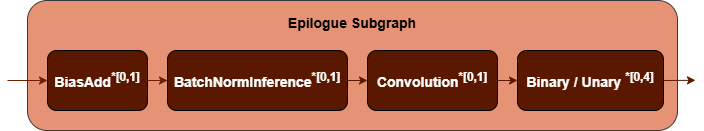
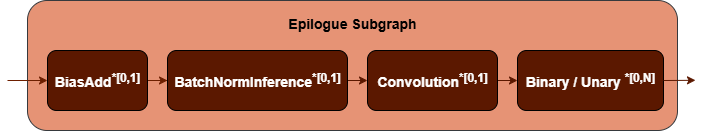
doc: graph: update max binary/unary ops number to 20

diff --git a/doc/graph/fusion_patterns/convolution_fusion_patterns.md b/doc/graph/fusion_patterns/convolution_fusion_patterns.md
@@ -39,7 +39,8 @@ brown nodes are optional.
      and can only appear once.
    - **Convolution**: If present, is a Depthwise Convolution which can only be
      fused with 1x1 Convolution and can only appear once.
-   - 0 to 4 Binary or Unary operations are supported in the epilogue subgraph.
+   - N=20, 0 to 20 Binary or Unary operations are supported in the epilogue
+     subgraph.
 
 3. **F2F Conversion Subgraph**: Converts the output tensor from floating-point to
    another floating-point. It is constructed by a [TypeCast](@ref dev_guide_op_typecast)

diff --git a/doc/graph/fusion_patterns/quantized_convtranspose_fusion_patterns.md b/doc/graph/fusion_patterns/quantized_convtranspose_fusion_patterns.md
@@ -40,7 +40,8 @@ pattern while the brown nodes are optional.
 
    - **BiasAdd**: If present, must be the first op in the epilogue subgraph and
      can only appear once.
-   - 0 to 4 Binary or Unary operations are supported in the epilogue subgraph.
+   - N=20, 0 to 20 Binary or Unary operations are supported in the epilogue
+     subgraph.
 
 4. **F2Q Conversion Subgraph**: Converts the output tensor from floating-point
    to quantized data type. It is constructed by a [Quantize](@ref dev_guide_op_quantize)

diff --git a/doc/graph/fusion_patterns/quantized_convolution_fusion_patterns.md b/doc/graph/fusion_patterns/quantized_convolution_fusion_patterns.md
@@ -47,7 +47,8 @@ while the brown nodes are optional.
 
    - **BiasAdd**: If present, must be the first op in the epilogue subgraph and
      can only appear once.
-   - 0 to 4 Binary or Unary operations are supported in the epilogue subgraph.
+   - N=20, 0 to 20 Binary or Unary operations are supported in the epilogue
+     subgraph.
 
 5. **F2F/F2Q Conversion Subgraph**: Converts the output
    tensor from floating-point to floating-point or quantized data type. It can

diff --git a/doc/graph/fusion_patterns/quantized_matmul_fusion_patterns.md b/doc/graph/fusion_patterns/quantized_matmul_fusion_patterns.md
@@ -47,7 +47,8 @@ while the brown nodes are optional.
 
    - **BiasAdd**: If present, must be the first op in the epilogue subgraph and
      can only appear once.
-   - 0 to 4 Binary or Unary operations are supported in the epilogue subgraph.
+   - N=20, 0 to 20 Binary or Unary operations are supported in the epilogue
+     subgraph.
    - **Select**: If present, must follow binary/unary operations (if present)
      and can only appear once.
 

diff --git a/doc/graph/fusion_patterns/matmul_fusion_patterns.md b/doc/graph/fusion_patterns/matmul_fusion_patterns.md
@@ -32,7 +32,8 @@ nodes are optional.
 
    - **BiasAdd**: If present, must be the first op in the epilogue subgraph and
      can only appear once.
-   - 0 to 4 Binary or Unary operations are supported in the epilogue subgraph.
+   - N=20, 0 to 20 Binary or Unary operations are supported in the epilogue
+     subgraph.
    - **Select**: If present, must follow binary/unary operations (if present)
      and can only appear once.
 

diff --git a/doc/graph/fusion_patterns/softmax_fusion_patterns.md b/doc/graph/fusion_patterns/softmax_fusion_patterns.md
@@ -32,7 +32,8 @@ brown nodes are optional.
 
    ![epilogue subgraph](images/epilogue_subgraph_general_1.png)
 
-   - 0 to 4 Binary or Unary operations are supported in the epilogue subgraph.
+   - N=20, 0 to 20 Binary or Unary operations are supported in the epilogue
+     subgraph.
 
 4. **F2Q Conversion Subgraph**: Converts the output
    tensor from floating-point to quantized data type. It can be one of

diff --git a/doc/graph/fusion_patterns/norm_fusion_patterns.md b/doc/graph/fusion_patterns/norm_fusion_patterns.md
@@ -36,7 +36,8 @@ brown nodes are optional.
 
    ![epilogue subgraph](images/epilogue_subgraph_general_1.png)
 
-   - 0 to 4 Binary or Unary operations are supported in the epilogue subgraph.
+   - N=20, 0 to 20 Binary or Unary operations are supported in the epilogue
+     subgraph.
 
 4. **F2Q Conversion Subgraph**: Converts the output
    tensor from floating-point to quantized data type. It can

diff --git a/doc/graph/fusion_patterns/convtranspose_fusions_patterns.md b/doc/graph/fusion_patterns/convtranspose_fusions_patterns.md
@@ -33,7 +33,8 @@ brown nodes are optional.
 
    - **BiasAdd**: If present, must be the first op in the epilogue subgraph and
      can only appear once.
-   - 0 to 4 Binary or Unary operations are supported in the epilogue subgraph.
+   - N=20, 0 to 20 Binary or Unary operations are supported in the epilogue
+     subgraph.
 
 ## Data Types
 

diff --git a/doc/graph/fusion_patterns/binary_fusion_patterns.md b/doc/graph/fusion_patterns/binary_fusion_patterns.md
@@ -30,7 +30,8 @@ brown nodes are optional.
 
    ![epilogue subgraph](images/epilogue_subgraph_general_1.png)
 
-   - 0 to 4 Binary or Unary operations are supported in the epilogue subgraph.
+   - N=20, 0 to 20 Binary or Unary operations are supported in the epilogue
+     subgraph.
 
 ## Data Types
 

diff --git a/doc/graph/fusion_patterns/interpolate_fusion_patterns.md b/doc/graph/fusion_patterns/interpolate_fusion_patterns.md
@@ -26,7 +26,8 @@ brown nodes are optional.
 
    ![epilogue subgraph](images/epilogue_subgraph_general_1.png)
 
-   - 0 to 4 Binary or Unary operations are supported in the epilogue subgraph.
+   - N=20, 0 to 20 Binary or Unary operations are supported in the epilogue
+     subgraph.
 
 ## Data Types
 

diff --git a/doc/graph/fusion_patterns/pool_fusion_patterns.md b/doc/graph/fusion_patterns/pool_fusion_patterns.md
@@ -29,7 +29,8 @@ brown nodes are optional.
 
    ![epilogue subgraph](images/epilogue_subgraph_general_1.png)
 
-   - 0 to 4 Binary or Unary operations are supported in the epilogue subgraph.
+   - N=20, 0 to 20 Binary or Unary operations are supported in the epilogue
+     subgraph.
 
 ## Data Types
 

diff --git a/doc/graph/fusion_patterns/reduction_fusion_patterns.md b/doc/graph/fusion_patterns/reduction_fusion_patterns.md
@@ -33,7 +33,8 @@ brown nodes are optional.
 
    ![epilogue subgraph](images/epilogue_subgraph_general_1.png)
 
-   - 0 to 4 Binary or Unary operations are supported in the epilogue subgraph.
+   - N=20, 0 to 20 Binary or Unary operations are supported in the epilogue
+     subgraph.
 
 
 ## Data Types
